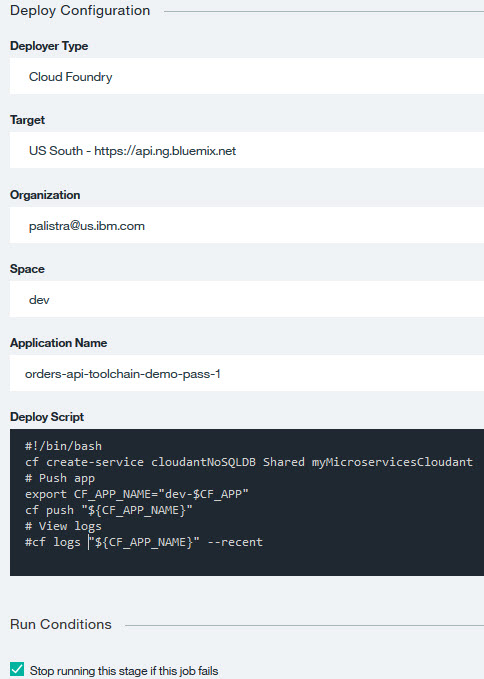
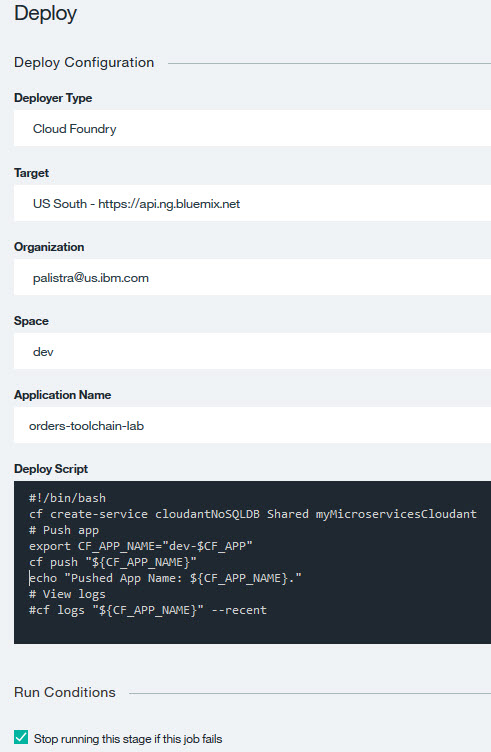
Signed-off-by: palistra <palistra@us.ibm.com>

diff --git a/Lab-1-Order-Pipeline.md b/Lab-1-Order-Pipeline.md
@@ -151,6 +151,7 @@ Now that you have a Git repository clone of the code, we will add a Delivery Pip
         # Push app
         export CF_APP_NAME="dev-$CF_APP"
         cf push "${CF_APP_NAME}"
+        echo "Pushed App Name: ${CF_APP_NAME}."
         # View logs
         #cf logs "${CF_APP_NAME}" --recent
     </pre>    
@@ -159,14 +160,16 @@ Now that you have a Git repository clone of the code, we will add a Delivery Pip
     <img src="screenshots/DevStageDevJobOrderDeliveryPipeline.jpg" alt="DevStageDevJobOrderDeliveryPipeline.jpg">
     </ul>
     <li>The bash script just entered into the Deploy Script references the <i>CF_APP_NAME</i> environment variable ($CF_APP is provided by default).  CF_APP_NAME needs to be added to the environment variables.
-    <li>Click the <b>ENVIRONMENT PROPERTIES<b> tab.
+    <li>Click the <b>ENVIRONMENT PROPERTIES</b> tab.
     <li>Click <b>ADD PROPERTY<b> and select <b>Text Property</b>.
     <li>Enter "CF_APP_NAME" as the 'Name'.  Do not enter anything for the 'Value'.
     <li>Click <b>Save</b> to save the <b>Dev</b> stage.
     <li>The <b>Delivery Pipeline</b> displays the <b>Build</b> and <b>Dev</b> stages.  The <b>Dev</b> stage has not been run. Click on the <b>Run Stage</b> icon to run the <b>Dev</b> stage and deploy the order API.
     <br>
     <img src="screenshots/RunningDevStageOrderDeliveryPipeline.jpg" alt="RunningDevStageOrderDeliveryPipeline">
-    <p>The JOBS section shows the Deploy was successful.
+    <p>The JOBS section shows the Deploy was successful. Click on "View logs and history" to the Job log.
+    <br>
+    <img src="screenshots/DevStageOrderDeliveryPipelineExecutionLog.jpg" alt="DevStageOrderDeliveryPipelineExecutionLog">
     <li>LAST EXECUTION RESULT displays the url to the successfully deployed application (dev-orders-toolchain-lab.mybluemix.net) as well as a link to the runtime log.
     <br>
     <img src="screenshots/DevStageOrderDeliveryPipelineExecutionResult.jpg" alt="DevStageOrderDeliveryPipelineExecutionResult">
@@ -175,45 +178,40 @@ Now that you have a Git repository clone of the code, we will add a Delivery Pip
     <img src="screenshots/DevStageOrderDeliveryPipelineRunning.jpg" alt="DevStageOrderDeliveryPipelineRunning">
     <p>The <b>Dev</b> stage has been successfully added and executed.
 </ol>
-<li>Add the <b>Test</b> stage (remember, two jobs, one to deploy to the <i>test</i> space and another to perform an automated test).
+
+<li>Add the <b>Test</b> stage (remember, two jobs, one to deploy to the <i>test</i> space and another to perform an automated test).  We will clone the <b>Dev</b> stage and make some modifications.
 <ol compact>
-<li>Click on <b>ADD STAGE</b>.
-    <li>On the <b>INPUT</b> tab, enter "Test" for Stage Name. Note that:
-    <ul compact>
-    <li>'Input Type' is set to Build Artifacts (from the <b>Build</b> stage).
-    <li>'Stage' and 'Job' are both 'Build'.
-    <li>'Stage Trigger' is set to "Run jobs when the previous stage is completed", resulting in the Dev stage running when the <b>Build</b> stage successfully completes.
-    </ul>
-    <li>Click the <b>Jobs</b> tab.
-    <li>Click <b>ADD JOB</b>.
-    <li>Click the <b>+</b> and select <b>Deploy</b> for the JOB TYPE.
-    <li>On the Job configuration panel, note that:
-    <ul compact>
-    <li>'Deployer Type' is set to "Cloud Foundry" (other options are available on the pull-down).
-    <li>'Target' is set to "US South - https://api.ng/bluemix.net" as this is where the code will be deployed.
-    <li>'Space' is set to "dev".
-    <li>Type the following into the "Deploy Script". This will create and deploy the cloudantNoSQLDB service and then deploy the application.
+    <li>Ensure the <b>Delivery Pipeline</b> is displayed.
+    <li>On the <b>Dev</b> stage, click the <b>Stage Configuration</b> and select "Clone Stage".
+    <br>
+    <img src="screenshots/CloneDevStageOrderDeliveryPipeline.jpg" alt="CloneDevStageOrderDeliveryPipeline">
+    <li>Rename the cloned stage from <b>Dev [copy]</b> to <b>Test</b>.
+    <li>On the <b>Jobs> tab, change the space from <b>dev</b> to <b>qa</b> (or enter <b>qa</b> if not on the dropdown) and change the deploy script to change CF_APP_NAME to "test-$CF_APP" from ""dev-$CF_APP".
+    <li>Add a new Job of type Test called <b>Test</b>.  There are a number of different Testers available. For this exercise, we will select the default Simple Tester. Enter the following code to the <b>Test Command</b>.
     <pre>    
-        #!/bin/bash
-        cf create-service cloudantNoSQLDB Shared myMicroservicesCloudant
-        # Push app
-        export CF_APP_NAME="dev-$CF_APP"
-        cf push "${CF_APP_NAME}"
-        # View logs
-        #cf logs "${CF_APP_NAME}" --recent
-    </pre>    
-    <li>'Run Conditions' is set to "Stop running this stage if this job fails" to prevent any other jobs in this stage from running and to make the stage failed is this Job fails.
+      #!/bin/bash
+      # invoke tests here
+      export CF_APP_NAME="test-$CF_APP"
+      echo "Testing App Name: ${CF_APP_NAME}."
+      echo "Test has passed"
+    </pre>
     <br>
-    <img src="screenshots/DevStageDevJobOrderDeliveryPipeline.jpg" alt="DevStageDevJobOrderDeliveryPipeline.jpg">
-    </ul>
-    <li>The bash script just entered into the Deploy Script references the <i>CF_APP_NAME</i> environment variable ($CF_APP is provided by default).  CF_APP_NAME needs to be added to the environment variables.
-    <li>Click the <b>ENVIRONMENT PROPERTIES<b> tab.
-    <li>Click <b>ADD PROPERTY<b> and select <b>Text Property</b>.
-    <li>Enter "CF_APP_NAME" as the 'Name'.  Do not enter anything for the 'Value'.
-    <li>Click <b>Save</b> to save the <b>Dev</b> stage.
-    <li>The <b>Delivery Pipeline</b> displays the <b>Build</b> and <b>Dev</b> stages.  The <b>Dev</b> stage has not been run. Click on the <b>Run Stage</b> icon to run the <b>Dev</b> stage and deploy the order API.
+    <img src="screenshots/TestStageDeployStep.jpg" alt="TestStageDeployStep">
+    <li>Click the <b>ENVIRONMENT PROPERTIES</b> tab. Note that the environment variable CF_APP_NAME is already present.
+    <li>Click <b>Save</b> to save the <b>Test</b> stage.
+    <li>The <b>Delivery Pipeline</b> displays the <b>Build</b> and <b>Dev</b> stages.  The <b>Dev</b> stage has not been run.
+    Click on the <b>Run Stage</b> icon to run the <b>Dev</b> stage and deploy the order API to the <b>Test</b> space.
+    <li>As before for the <b>Dev</b> stage, the JOBS section shows the Deploy and Test were successful. Click on "View logs and history" to inspect the Job log.
     <br>
-    <img src="screenshots/RunningDevStageOrderDeliveryPipeline.jpg" alt="RunningDevStageOrderDeliveryPipeline">
+    <img src="screenshots/TestStageOrderDeliveryPipelineExecutionResult.jpg" alt="TestStageOrderDeliveryPipelineExecutionResult">
+    <li>The log for the Deploy job is displayed.
+    <br>
+    <img src="screenshots/TestStageOrderDeliveryPipelineClickTestLog.jpg" alt="TestStageOrderDeliveryPipelineClickTestLog">
+
+
+
+
+
     <p>The JOBS section shows the Deploy was successful.
     <li>LAST EXECUTION RESULT displays the url to the successfully deployed application (dev-orders-toolchain-lab.mybluemix.net) as well as a link to the runtime log.
     <br>
@@ -227,6 +225,31 @@ Now that you have a Git repository clone of the code, we will add a Delivery Pip
 <ol compact>
 </ol>
 
+
+
+
+
+#!/bin/bash
+cf create-service cloudantNoSQLDB Shared myMicroservicesCloudant
+if ! cf app $CF_APP; then  
+  cf push $CF_APP
+else
+  OLD_CF_APP=${CF_APP}-OLD-$(date +"%s")
+  rollback() {
+    set +e  
+    if cf app $OLD_CF_APP; then
+      cf logs $CF_APP --recent
+      cf delete $CF_APP -f
+      cf rename $OLD_CF_APP $CF_APP
+    fi
+    exit 1
+  }
+  set -e
+  trap rollback ERR
+  cf rename $CF_APP $OLD_CF_APP
+  cf push $CF_APP
+  cf delete $OLD_CF_APP -f
+fi
 
    DThese will deploy (respectively) to the dev, qa and prod Bluemix spaces. The Dev and Prod stages will have one job each (deploy to the Bluemix space) while the Test stage will have two stages (deploy to the Bluemix space and perform an automated test).
 
